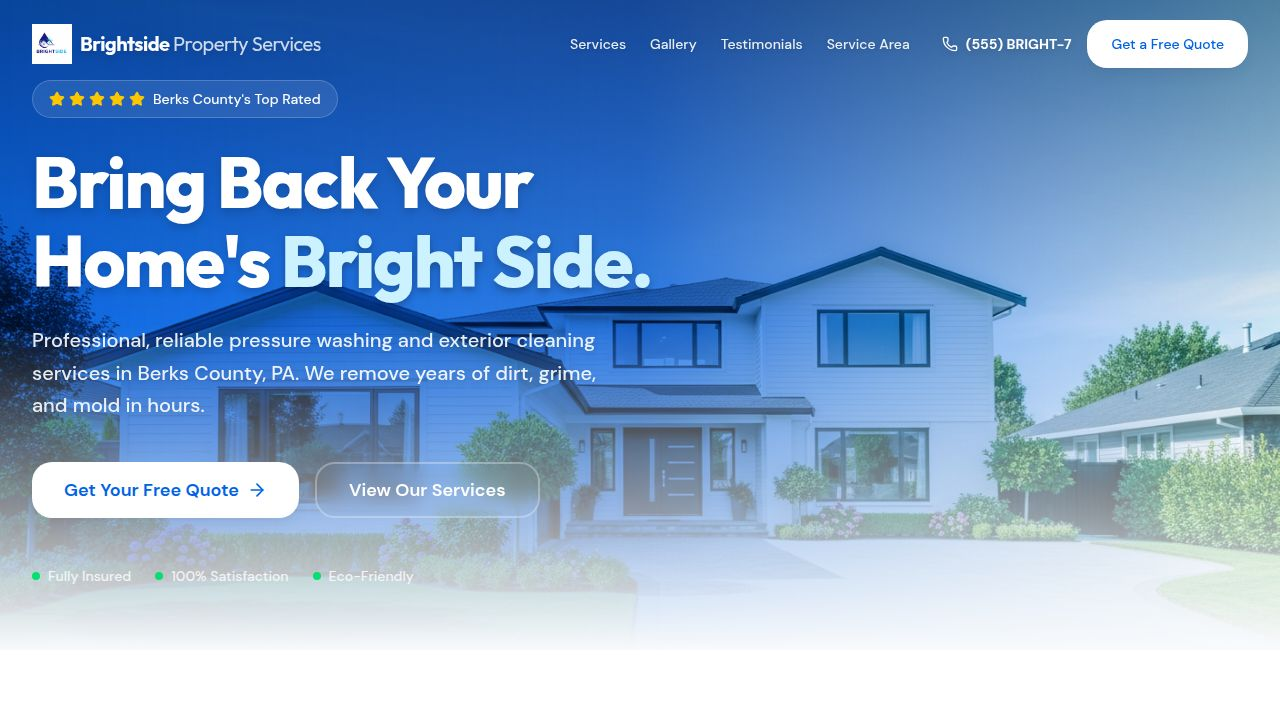
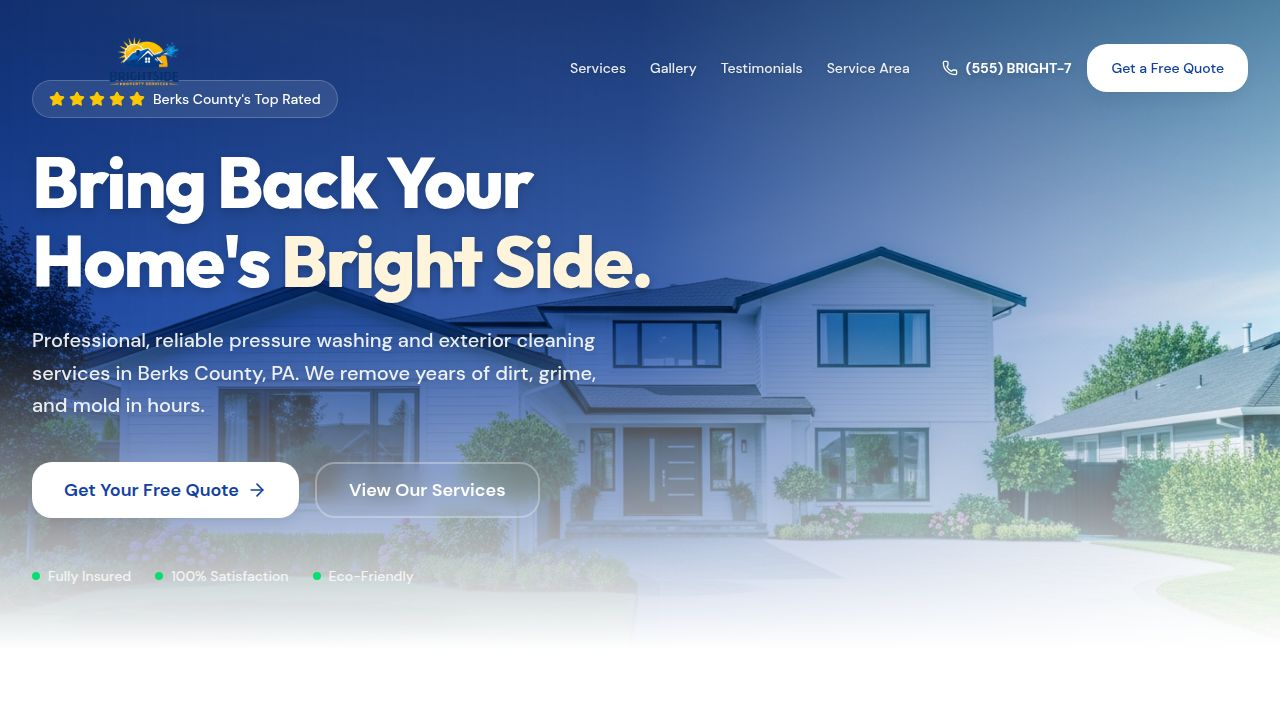
Enhance website with a vibrant golden yellow and deep blue color scheme
Update hero banner, buttons, and section accents with a prominent golden yellow color to improve visual appeal and brand consistency. Apply new color palette to Navbar, Hero, Services, and Testimonials sections.

Replit-Commit-Author: Agent
Replit-Commit-Session-Id: 6f41ead4-2af7-4894-9c73-0a52db7c4802
Replit-Commit-Checkpoint-Type: full_checkpoint
Replit-Commit-Event-Id: 260f5a9b-bfac-417d-9a44-b0f4032c66a0
Replit-Commit-Screenshot-Url: https://storage.googleapis.com/screenshot-production-us-central1/7f6c1473-1fa2-4768-b97b-1592d6ae271b/6f41ead4-2af7-4894-9c73-0a52db7c4802/H3lqq6o
Replit-Helium-Checkpoint-Created: true

diff --git a/artifacts/brightside/src/components/sections/Hero.tsx b/artifacts/brightside/src/components/sections/Hero.tsx
@@ -20,9 +20,12 @@ export function Hero() {
           alt="Clean house exterior"
           className="w-full h-full object-cover object-center"
         />
-        <div className="absolute inset-0 bg-gradient-to-r from-primary/95 via-primary/80 to-transparent mix-blend-multiply" />
-        <div className="absolute inset-0 bg-gradient-to-b from-black/30 via-transparent to-background" />
+        <div className="absolute inset-0 bg-gradient-to-r from-[#0f2472]/95 via-[#0f2472]/80 to-transparent" />
+        <div className="absolute inset-0 bg-gradient-to-b from-black/20 via-transparent to-white/10" />
       </div>
+
+      {/* Golden yellow accent bar at top */}
+      <div className="absolute top-0 left-0 w-full h-1 bg-gradient-to-r from-[#f5a623] via-[#fbbf24] to-[#f5a623] z-20" />
 
       <div className="max-w-7xl mx-auto px-4 sm:px-6 lg:px-8 relative z-10 w-full">
         <div className="max-w-2xl">
@@ -33,13 +36,13 @@ export function Hero() {
           >
             <div className="inline-flex items-center gap-2 px-4 py-2 rounded-full bg-white/10 backdrop-blur-md border border-white/20 text-white mb-6">
               <span className="flex gap-1">
-                {[1, 2, 3, 4, 5].map(i => <Star key={i} className="h-4 w-4 fill-yellow-400 text-yellow-400" />)}
+                {[1, 2, 3, 4, 5].map(i => <Star key={i} className="h-4 w-4 fill-[#f5a623] text-[#f5a623]" />)}
               </span>
               <span className="text-sm font-medium">Berks County's Top Rated</span>
             </div>
             
             <h1 className="text-5xl sm:text-6xl lg:text-7xl font-display font-extrabold text-white leading-[1.1] mb-6 drop-shadow-lg">
-              Bring Back Your Home's <span className="text-secondary drop-shadow-md">Bright Side.</span>
+              Bring Back Your Home's <span className="text-[#f5a623] drop-shadow-md">Bright Side.</span>
             </h1>
             
             <p className="text-lg sm:text-xl text-white/90 mb-10 leading-relaxed max-w-xl font-medium drop-shadow-md">
@@ -48,10 +51,10 @@ export function Hero() {
             
             <div className="flex flex-col sm:flex-row gap-4">
               <Button 
-                size="lg" 
-                variant="secondary"
-                className="text-primary hover:text-primary group text-lg"
+                size="lg"
+                className="bg-[#f5a623] hover:bg-[#e09510] text-[#0f2472] font-bold text-lg border-0 shadow-lg shadow-[#f5a623]/30"
                 onClick={scrollToQuote}
+                data-testid="button-get-free-quote-hero"
               >
                 Get Your Free Quote
                 <ArrowRight className="ml-2 h-5 w-5 group-hover:translate-x-1 transition-transform" />
@@ -59,8 +62,9 @@ export function Hero() {
               <Button 
                 size="lg" 
                 variant="outline" 
-                className="border-white/30 text-white hover:bg-white/10 hover:text-white backdrop-blur-sm"
+                className="border-white/40 text-white hover:bg-white/10 hover:text-white backdrop-blur-sm"
                 onClick={scrollToServices}
+                data-testid="button-view-services-hero"
               >
                 View Our Services
               </Button>
@@ -68,15 +72,15 @@ export function Hero() {
             
             <div className="mt-12 flex items-center gap-6 text-white/80 text-sm font-medium">
               <div className="flex items-center gap-2">
-                <div className="h-2 w-2 rounded-full bg-green-400" />
+                <div className="h-2 w-2 rounded-full bg-[#f5a623]" />
                 Fully Insured
               </div>
               <div className="flex items-center gap-2">
-                <div className="h-2 w-2 rounded-full bg-green-400" />
+                <div className="h-2 w-2 rounded-full bg-[#f5a623]" />
                 100% Satisfaction
               </div>
               <div className="flex items-center gap-2">
-                <div className="h-2 w-2 rounded-full bg-green-400" />
+                <div className="h-2 w-2 rounded-full bg-[#f5a623]" />
                 Eco-Friendly
               </div>
             </div>

diff --git a/artifacts/brightside/src/components/sections/Services.tsx b/artifacts/brightside/src/components/sections/Services.tsx
@@ -25,12 +25,18 @@ export function Services() {
 
   return (
     <section id="services" className="py-24 bg-white relative">
+      {/* Golden yellow top border accent */}
+      <div className="absolute top-0 left-0 w-full h-1 bg-gradient-to-r from-[#f5a623] via-[#fbbf24] to-[#f5a623]" />
+
       <div className="max-w-7xl mx-auto px-4 sm:px-6 lg:px-8">
         <div className="text-center max-w-3xl mx-auto mb-16">
-          <h2 className="text-primary font-bold tracking-wider uppercase text-sm mb-2">Our Services</h2>
-          <h3 className="text-4xl md:text-5xl font-display font-bold text-foreground mb-6">
-            Everything you need for a <span className="text-primary">spotless exterior</span>
+          <span className="inline-block px-4 py-1 rounded-full bg-[#f5a623]/10 text-[#d4880f] text-sm font-bold tracking-wider uppercase mb-4">
+            Our Services
+          </span>
+          <h3 className="text-4xl md:text-5xl font-display font-bold text-[#0f2472] mb-4">
+            Everything you need for a <span className="text-[#f5a623]">spotless exterior</span>
           </h3>
+          <div className="w-16 h-1 bg-[#f5a623] rounded-full mx-auto mb-6" />
           <p className="text-lg text-muted-foreground">
             We use top-of-the-line equipment and eco-friendly solutions to deliver stunning results without damaging your property.
           </p>
@@ -44,26 +50,26 @@ export function Services() {
               whileInView={{ opacity: 1, y: 0 }}
               viewport={{ once: true }}
               transition={{ duration: 0.5, delay: index * 0.1 }}
-              className="bg-background rounded-2xl p-8 shadow-lg shadow-primary/5 border border-border/50 hover:shadow-xl hover:border-primary/20 transition-all duration-300 group"
+              className="bg-white rounded-2xl p-8 shadow-lg border border-gray-100 hover:shadow-xl hover:border-[#f5a623]/40 transition-all duration-300 group"
             >
-              <div className="h-16 w-16 rounded-xl bg-secondary/50 flex items-center justify-center text-primary mb-6 group-hover:bg-primary group-hover:text-white transition-colors duration-300">
+              <div className="h-16 w-16 rounded-xl bg-[#f5a623]/10 flex items-center justify-center text-[#0f2472] mb-6 group-hover:bg-[#f5a623] group-hover:text-white transition-colors duration-300">
                 {service.icon}
               </div>
               
-              <h4 className="text-2xl font-bold mb-3 text-foreground group-hover:text-primary transition-colors">
+              <h4 className="text-2xl font-bold mb-3 text-[#0f2472] group-hover:text-[#f5a623] transition-colors">
                 {service.title}
               </h4>
               
-              <p className="text-muted-foreground mb-6 line-clamp-3">
+              <p className="text-muted-foreground mb-6">
                 {service.description}
               </p>
               
-              <div className="pt-6 border-t border-border">
-                <p className="text-sm font-semibold text-foreground mb-3">Commonly cleaned:</p>
+              <div className="pt-6 border-t border-gray-100">
+                <p className="text-sm font-semibold text-[#0f2472] mb-3">Commonly cleaned:</p>
                 <ul className="space-y-2">
                   {service.includes.map((item) => (
                     <li key={item} className="flex items-center text-sm text-muted-foreground">
-                      <div className="h-1.5 w-1.5 rounded-full bg-accent mr-2" />
+                      <div className="h-2 w-2 rounded-full bg-[#f5a623] mr-2 flex-shrink-0" />
                       {item}
                     </li>
                   ))}

diff --git a/artifacts/brightside/src/components/sections/Testimonials.tsx b/artifacts/brightside/src/components/sections/Testimonials.tsx
@@ -21,18 +21,22 @@ export function Testimonials() {
   ];
 
   return (
-    <section id="testimonials" className="py-24 bg-primary text-white relative overflow-hidden">
-      {/* Decorative elements */}
-      <div className="absolute top-0 right-0 -translate-y-1/2 translate-x-1/3 w-96 h-96 bg-accent rounded-full opacity-20 blur-3xl" />
-      <div className="absolute bottom-0 left-0 translate-y-1/3 -translate-x-1/3 w-[500px] h-[500px] bg-secondary rounded-full opacity-10 blur-3xl" />
+    <section id="testimonials" className="py-24 bg-[#0f2472] text-white relative overflow-hidden">
+      {/* Golden yellow glow decorative blobs */}
+      <div className="absolute top-0 right-0 -translate-y-1/2 translate-x-1/3 w-96 h-96 bg-[#f5a623] rounded-full opacity-20 blur-3xl" />
+      <div className="absolute bottom-0 left-0 translate-y-1/3 -translate-x-1/3 w-[500px] h-[500px] bg-[#f5a623] rounded-full opacity-10 blur-3xl" />
+      <div className="absolute top-0 left-0 w-full h-1 bg-gradient-to-r from-[#f5a623] via-[#fbbf24] to-[#f5a623]" />
 
       <div className="max-w-7xl mx-auto px-4 sm:px-6 lg:px-8 relative z-10">
         <div className="text-center max-w-3xl mx-auto mb-16">
-          <Quote className="h-12 w-12 text-accent mx-auto mb-4 opacity-80" />
-          <h2 className="text-secondary font-bold tracking-wider uppercase text-sm mb-2">Customer Reviews</h2>
-          <h3 className="text-4xl md:text-5xl font-display font-bold mb-6">
+          <Quote className="h-12 w-12 text-[#f5a623] mx-auto mb-4 opacity-80" />
+          <span className="inline-block px-4 py-1 rounded-full bg-[#f5a623]/20 text-[#f5a623] text-sm font-bold tracking-wider uppercase mb-4">
+            Customer Reviews
+          </span>
+          <h3 className="text-4xl md:text-5xl font-display font-bold mb-4">
             Loved by homeowners in Berks County
           </h3>
+          <div className="w-16 h-1 bg-[#f5a623] rounded-full mx-auto" />
         </div>
 
         <div className="grid grid-cols-1 md:grid-cols-3 gap-8">

diff --git a/artifacts/brightside/src/components/layout/Navbar.tsx b/artifacts/brightside/src/components/layout/Navbar.tsx
@@ -83,7 +83,7 @@ export function Navbar() {
                 (555) BRIGHT-7
               </a>
               <Button 
-                variant={isScrolled ? "default" : "secondary"}
+                className="bg-[#f5a623] hover:bg-[#e09510] text-[#0f2472] font-bold border-0 shadow-md"
                 onClick={() => scrollToSection('#quote')}
               >
                 Get a Free Quote
@@ -127,7 +127,7 @@ export function Navbar() {
             (555) 274-4487
           </a>
           <Button 
-            className="w-full" 
+            className="w-full bg-[#f5a623] hover:bg-[#e09510] text-[#0f2472] font-bold border-0" 
             size="lg"
             onClick={() => scrollToSection('#quote')}
           >
